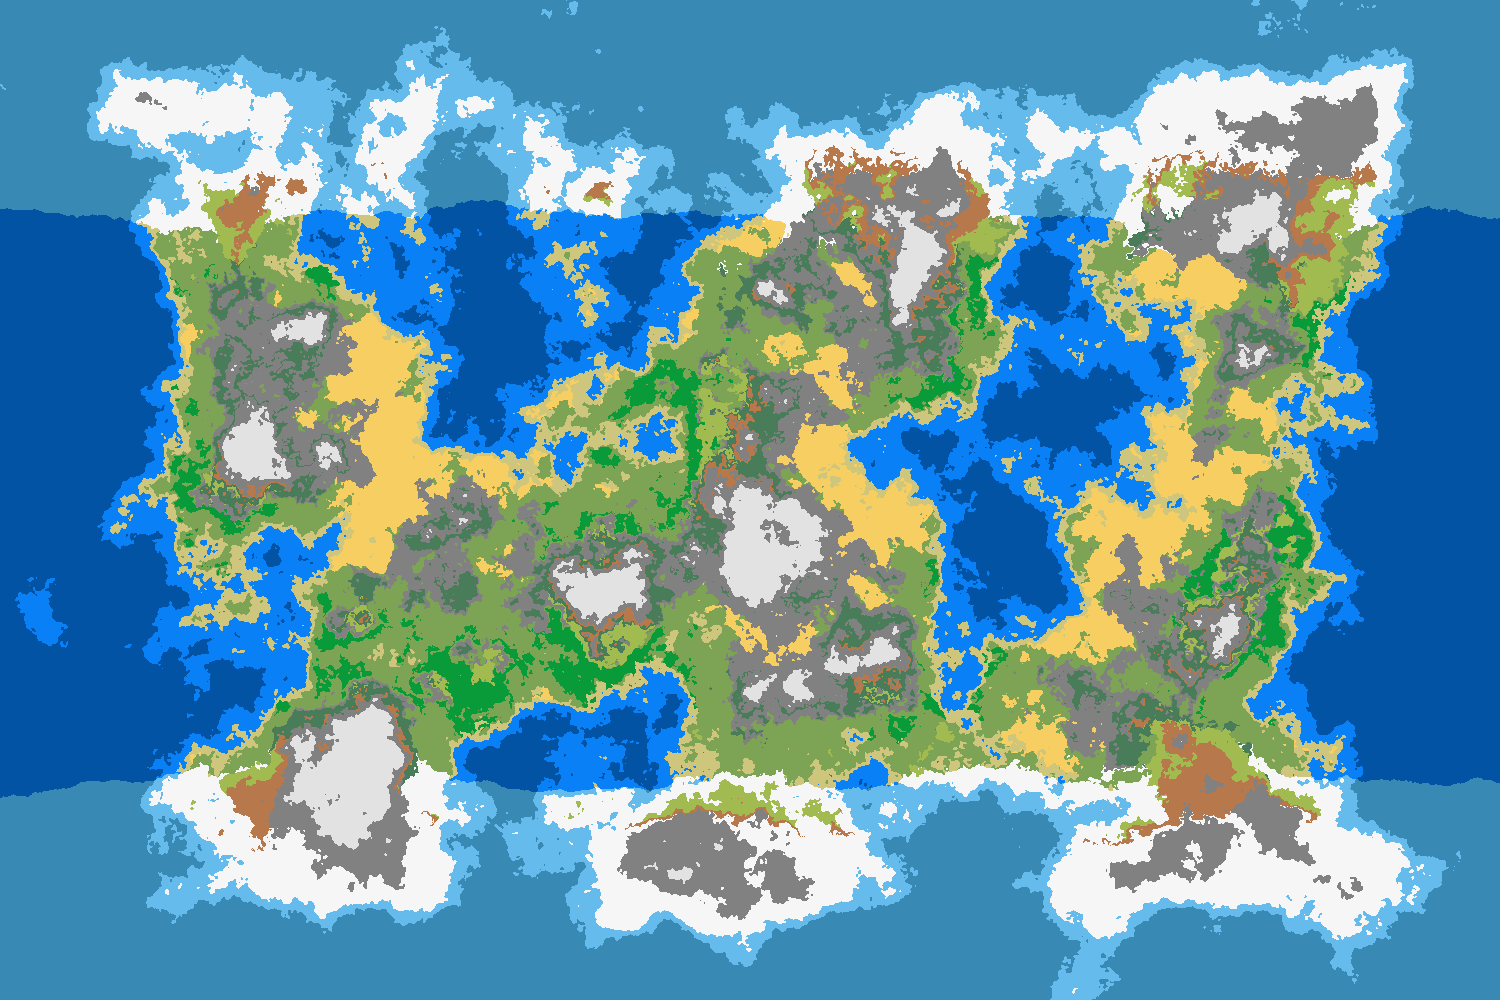
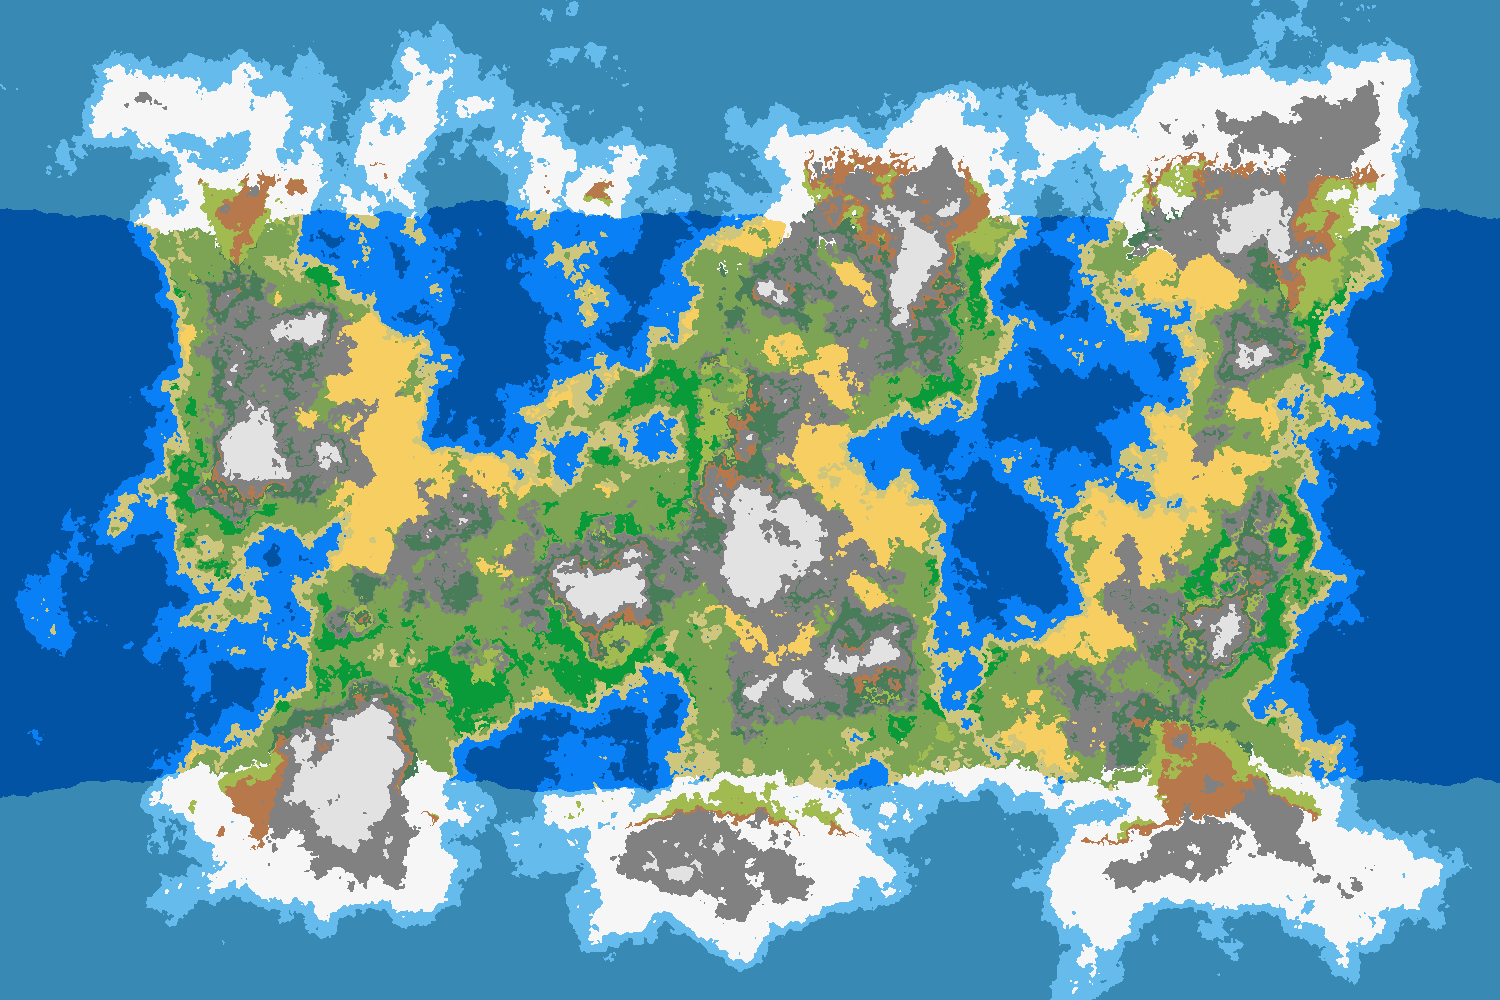
Changed fallof algorithm, fixed circle fallof border

diff --git a/src/map_generator.cpp b/src/map_generator.cpp
@@ -1,4 +1,12 @@
 #include "map_generator.h"
+#include <algorithm>
+
+float smoothstep(float edge0, float edge1, float x) {
+    // Scale, bias and saturate x to 0..1 range
+    x = std::clamp((x - edge0) / (edge1 - edge0), 0.0f, 1.0f);
+    // Evaluate polynomial
+    return x * x * (3 - 2 * x);
+}
 
 /* Biome */
 Biome::Biome(std::string name, core::Range<float> height_range, core::Range<float> temperature_range, core::Range<float> humidity_range, core::graphics::Color color){
@@ -213,15 +221,19 @@ float MapGenerator::get_fallof_map_from(float x, float y){
         core::Vector2i center = core::Vector2i(m_settings.m_size_x/2, m_settings.m_size_y/2);
         core::Vector2i current_pos(x, y);
 
-        float d = glm::distance(core::Vector2f(center), core::Vector2f(current_pos));
-        return evaluate_fallof_map(d / (m_settings.m_size_y * 0.6) );
+        float distance = glm::distance(core::Vector2f(center), core::Vector2f(current_pos));
+
+        // make distance range between 0 and 1
+        float distance_normalized = std::clamp(0.0f, 1.0f, distance / (m_settings.m_size_y/ 2.0f) );
+
+        return smoothstep(m_settings.m_fallof_a, m_settings.m_fallof_b, distance_normalized);
     }
     else if (m_settings.m_fallof_type == "Square"){
         float nx = std::abs(x *2.0f -  m_settings.m_size_x) / m_settings.m_size_x;
         float ny = std::abs(y *2.0f -  m_settings.m_size_y) / m_settings.m_size_y;
 
         float value = std::max(nx, ny);
-        float value2 = evaluate_fallof_map(value);
+        float value2 = smoothstep(m_settings.m_fallof_a, m_settings.m_fallof_b, value);
         return value2;
     }
     return 0.0f;

diff --git a/src/map_generator_gui.cpp b/src/map_generator_gui.cpp
@@ -44,7 +44,7 @@ namespace gui{
                 if (map.m_settings.m_use_fallof_map){
                     ImGui::Text("Fallof type: "); ImGui::SameLine(); ImGui::Combo("##FallofType", &map.m_settings.m_current_fallof_type, fallof_types, IM_ARRAYSIZE(fallof_types));
                     ImGui::Text("Fallof A   : "); ImGui::SameLine(); ImGui::InputFloat("##FallofA", &map.m_settings.m_fallof_a, 0, 5);
-                    ImGui::Text("Fallof B   : "); ImGui::SameLine(); ImGui::SliderFloat("##FallofB", &map.m_settings.m_fallof_b, 0, 5);
+                    ImGui::Text("Fallof B   : "); ImGui::SameLine(); ImGui::InputFloat("##FallofB", &map.m_settings.m_fallof_b, 0, 5);
                 }
                 ImGui::TreePop();
             }
